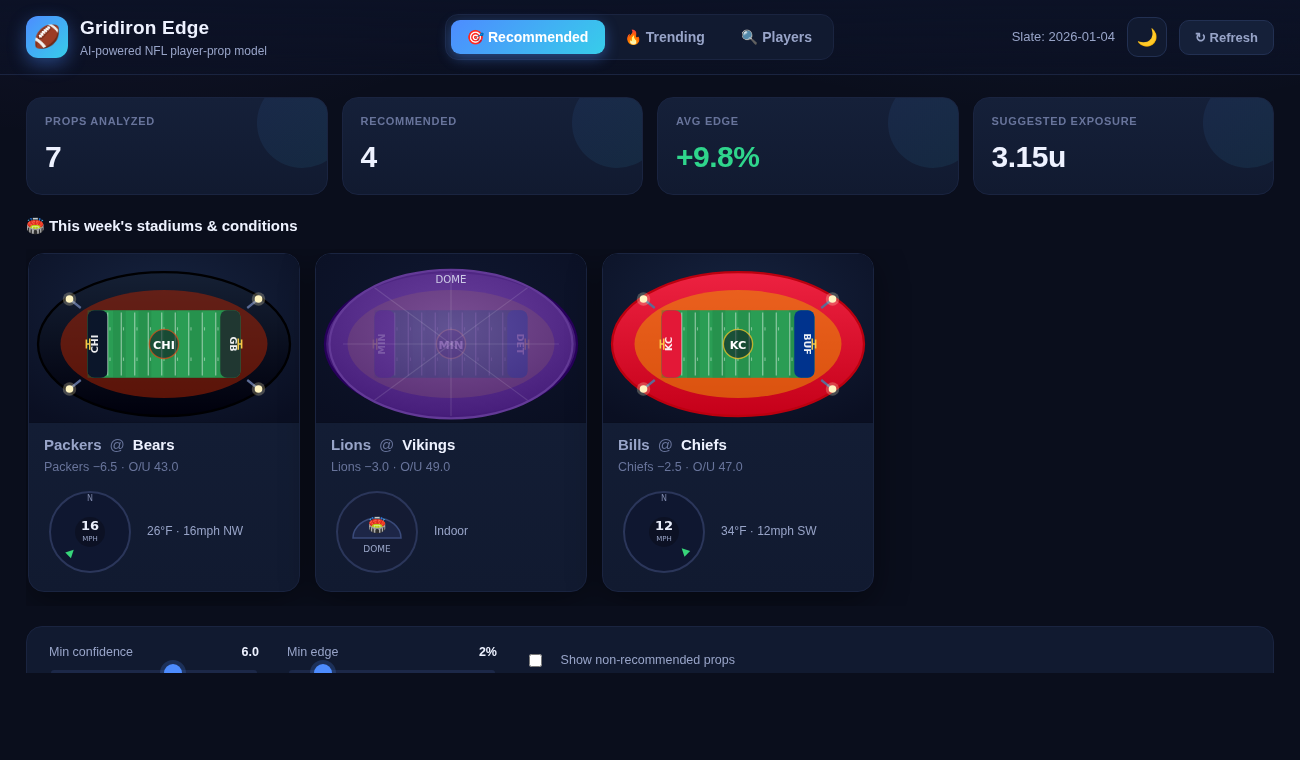
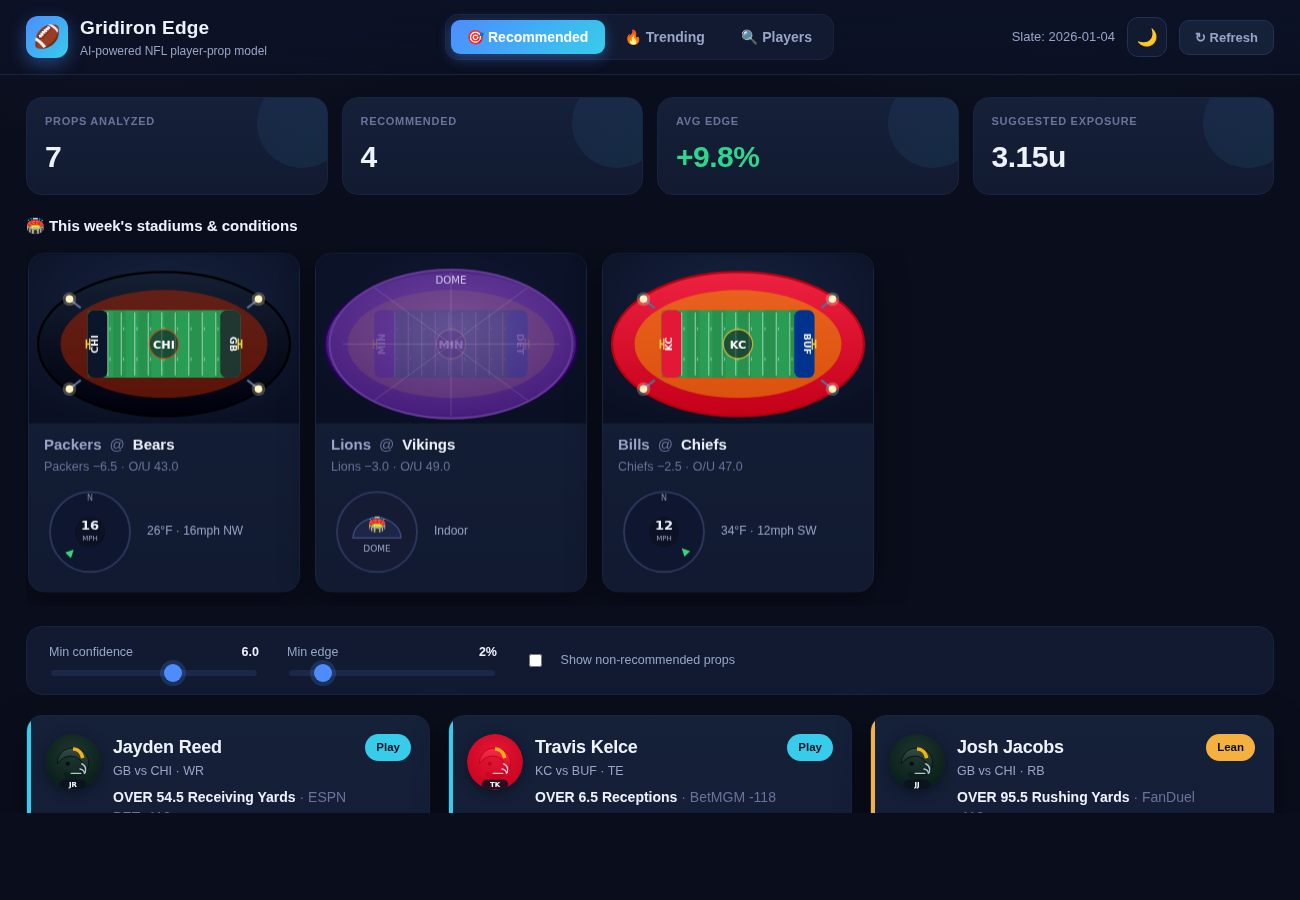
Add tasteful motion: scroll-reveal, tilt, animated bars & pings
- Staggered scroll-reveal via IntersectionObserver: cards, game cards, trend
  rows and player profiles fade/rise in with a per-index delay, on initial load
  and on each view switch. Instant (no-op) under prefers-reduced-motion or
  ?static so screenshots stay correct.
- Pointer-tilt on the stadium cards (subtle 3D perspective on mouse move).
- Projection bars draw in (range scales from the line, dots pop into place) on
  every render.
- Sparkline radar "ping" behind each player's most recent game.
- Grade-colored hover glow on pick cards; animated sheen on the logo.
- Replaced the old load-time rise animation with the reveal system; hover lift
  swapped for glow so motion and hover no longer fight over transform.

All gated behind a prefers-reduced-motion block. Backend untouched; 44 tests
still green. README + docs/dashboard.png updated.

Claude-Session: https://claude.ai/code/session_01UhMzn6SrSme5XhqhDFhnR5

diff --git a/web/css/styles.css b/web/css/styles.css
@@ -160,7 +160,8 @@ input[type=range]::-webkit-slider-thumb:hover { transform: scale(1.12); }
   border: 1px solid var(--border-soft); border-radius: var(--radius); box-shadow: var(--shadow);
   transition: transform .14s ease, border-color .2s ease;
 }
-.game-card:hover { transform: translateY(-4px); border-color: var(--brand); }
+.game-card { transform-style: preserve-3d; transition: box-shadow .25s ease, border-color .2s ease; }
+.game-card:hover { border-color: var(--brand); box-shadow: var(--shadow-lg); }
 .stadium-wrap { line-height: 0; background: #070b16; }
 .stadium-wrap .stadium { width: 100%; height: auto; display: block; }
 .game-info { padding: 11px 15px 3px; }
@@ -188,12 +189,11 @@ input[type=range]::-webkit-slider-thumb:hover { transform: scale(1.12); }
   border: 1px solid var(--border-soft); border-radius: var(--radius);
   padding: 18px; box-shadow: var(--shadow);
   display: flex; flex-direction: column; gap: 14px;
-  animation: rise .4s ease both; transition: transform .14s ease, border-color .2s ease;
+  transition: box-shadow .28s ease, border-color .2s ease;
 }
-.card:hover { transform: translateY(-3px); border-color: var(--border); }
+.card:hover { border-color: var(--border); box-shadow: var(--shadow-lg), 0 0 30px -12px var(--grade-color, transparent); }
 .card.faded { opacity: .6; }
 .card::before { content: ""; position: absolute; left: 0; top: 0; bottom: 0; width: 4px; background: var(--grade-color, var(--text-mute)); }
-@keyframes rise { from { opacity: 0; transform: translateY(10px); } to { opacity: 1; transform: none; } }
 
 .card-head { display: flex; justify-content: space-between; align-items: flex-start; gap: 10px; }
 .card-id { display: flex; gap: 12px; align-items: flex-start; }
@@ -276,7 +276,7 @@ input[type=range]::-webkit-slider-thumb:hover { transform: scale(1.12); }
 .profile {
   background: linear-gradient(180deg, var(--panel-2), var(--panel));
   border: 1px solid var(--border-soft); border-radius: var(--radius); box-shadow: var(--shadow);
-  overflow: hidden; animation: rise .4s ease both;
+  overflow: hidden;
 }
 .profile-head { display: flex; gap: 14px; align-items: center; padding: 18px; position: relative; overflow: hidden; }
 .profile-head::after { content: ""; position: absolute; inset: 0; background: var(--profile-grad); opacity: 0.12; pointer-events: none; z-index: 0; }
@@ -380,3 +380,55 @@ input[type=range]::-webkit-slider-thumb:hover { transform: scale(1.12); }
 }
 @keyframes shimmer { from { background-position: 140% 0; } to { background-position: -40% 0; } }
 @media (prefers-reduced-motion: reduce) { .skeleton-card { animation: none; } }
+
+/* ============================================================
+   Motion — scroll reveal, tilt, projection-bar & sparkline pings.
+   All gated behind prefers-reduced-motion at the bottom.
+   ============================================================ */
+
+/* staggered scroll-reveal (JS toggles .in via IntersectionObserver) */
+.reveal { opacity: 0; transform: translateY(16px); }
+.reveal.in {
+  opacity: 1; transform: none;
+  transition: opacity .5s ease, transform .55s cubic-bezier(.2, .7, .3, 1);
+  transition-delay: calc(var(--i, 0) * 45ms);
+}
+
+/* pointer tilt on stadium cards */
+.tilt { transition: transform .3s cubic-bezier(.2, .7, .3, 1), box-shadow .25s ease; will-change: transform; }
+.tilt.tilting { transition: box-shadow .25s ease; }
+
+/* projection bar draws in on each render */
+.range { transform-origin: left center; animation: growW .7s cubic-bezier(.2, .8, .2, 1) both; }
+@keyframes growW { from { transform: scaleX(0); } to { transform: scaleX(1); } }
+.proj-dot, .line-dot { animation: dotPop .5s .18s cubic-bezier(.4, 1.5, .5, 1) both; }
+@keyframes dotPop {
+  from { opacity: 0; transform: translate(-50%, -50%) scale(0); }
+  to   { opacity: 1; transform: translate(-50%, -50%) scale(1); }
+}
+
+/* radar "ping" behind the latest sparkline point */
+.spark-pulse { transform-box: fill-box; transform-origin: center; animation: sparkPing 1.9s ease-out infinite; }
+@keyframes sparkPing {
+  0%   { transform: scale(.5); opacity: .55; }
+  100% { transform: scale(2.6); opacity: 0; }
+}
+
+/* animated brand shimmer on the logo */
+.logo { position: relative; overflow: hidden; }
+.logo::after {
+  content: ""; position: absolute; inset: 0;
+  background: linear-gradient(120deg, transparent 30%, rgba(255,255,255,.35) 50%, transparent 70%);
+  transform: translateX(-120%); animation: sheen 5.5s ease-in-out infinite;
+}
+@keyframes sheen { 0%, 70% { transform: translateX(-120%); } 85%, 100% { transform: translateX(120%); } }
+
+@media (prefers-reduced-motion: reduce) {
+  .reveal { opacity: 1; transform: none; }
+  .reveal.in { transition: none; }
+  .tilt { transition: none; }
+  .range { animation: none; }
+  .proj-dot, .line-dot { animation: none; }
+  .spark-pulse { animation: none; opacity: 0; }
+  .logo::after { animation: none; }
+}

diff --git a/web/js/app.js b/web/js/app.js
@@ -24,6 +24,47 @@ function escapeHtml(s) {
   return String(s).replace(/[&<>"']/g, (c) => ({ "&": "&amp;", "<": "&lt;", ">": "&gt;", '"': "&quot;", "'": "&#39;" }[c]));
 }
 
+/* ---------------- motion ---------------- */
+const reduceMotion = window.matchMedia("(prefers-reduced-motion: reduce)").matches;
+
+const revealObserver = ("IntersectionObserver" in window) && !reduceMotion
+  ? new IntersectionObserver((entries, obs) => {
+      entries.forEach((e) => { if (e.isIntersecting) { e.target.classList.add("in"); obs.unobserve(e.target); } });
+    }, { threshold: 0.08, rootMargin: "0px 0px -6% 0px" })
+  : null;
+
+// Tag children for staggered reveal, then observe (or show immediately).
+function revealChildren(container) {
+  if (!container) return;
+  const instant = reduceMotion || state.static || !revealObserver;
+  const kids = container.children;
+  for (let i = 0; i < kids.length; i++) {
+    const el = kids[i];
+    el.classList.add("reveal");
+    el.style.setProperty("--i", Math.min(i, 12));
+    if (instant) el.classList.add("in");
+    else revealObserver.observe(el);
+  }
+}
+
+// Subtle pointer tilt for stadium cards.
+function enableTilt(container) {
+  if (!container || reduceMotion) return;
+  container.querySelectorAll(".tilt").forEach((card) => {
+    card.addEventListener("pointermove", (ev) => {
+      const r = card.getBoundingClientRect();
+      const px = (ev.clientX - r.left) / r.width - 0.5;
+      const py = (ev.clientY - r.top) / r.height - 0.5;
+      card.classList.add("tilting");
+      card.style.transform = `perspective(760px) rotateY(${px * 7}deg) rotateX(${-py * 7}deg) translateZ(6px)`;
+    });
+    card.addEventListener("pointerleave", () => {
+      card.classList.remove("tilting");
+      card.style.transform = "";
+    });
+  });
+}
+
 /* ---------------- theme ---------------- */
 function applyTheme(theme) {
   document.documentElement.setAttribute("data-theme", theme);
@@ -106,6 +147,8 @@ function renderGames() {
   const host = document.getElementById("games");
   if (!games.length) { host.innerHTML = ""; return; }
   host.innerHTML = games.map(gameCard).join("");
+  revealChildren(host);
+  enableTilt(host);
 }
 
 function gameCard(g) {
@@ -113,7 +156,7 @@ function gameCard(g) {
   const cond = w.dome ? "Indoor" : `${Math.round(w.temp_f)}°F · ${Math.round(w.wind_mph)}mph${w.wind_dir ? " " + w.wind_dir : ""}`;
   const favTxt = g.favorite ? `${teamName(g.favorite)} −${Math.abs(g.spread).toFixed(1)}` : "";
   return `
-    <article class="game-card">
+    <article class="game-card tilt">
       <div class="stadium-wrap">${stadium(g)}</div>
       <div class="game-info">
         <div class="matchup"><span class="away">${escapeHtml(teamName(g.away))}</span>
@@ -134,6 +177,7 @@ function renderRecommended() {
   }
   host.innerHTML = visible.map(cardHTML).join("");
   host.querySelectorAll(".conf-fill[data-w]").forEach((el) => requestAnimationFrame(() => (el.style.width = el.dataset.w)));
+  revealChildren(host);
 }
 
 function projBar(r) {
@@ -212,11 +256,13 @@ function renderTrending() {
     { title: "❄ Cooling Off", sub: "Production sliding vs prior form", rows: fallers, metric: (r) => `<span class="val neg">${r.trend_delta}</span>`, stroke: "var(--bad)" },
     { title: "💎 Biggest Edges", sub: "Model vs the sportsbook line", rows: edges, metric: (r) => `<span class="val cyan">${signedPct(r.edge)}</span>`, stroke: "var(--cyan)" },
   ];
-  document.getElementById("trending").innerHTML = cols.map((c) => `
+  const host = document.getElementById("trending");
+  host.innerHTML = cols.map((c) => `
     <div class="trend-col">
       <h3>${c.title}</h3><div class="colsub">${c.sub}</div>
       ${c.rows.length ? c.rows.map((r, i) => trendRow(r, i, c)).join("") : `<div class="empty" style="padding:24px">No movers.</div>`}
     </div>`).join("");
+  revealChildren(host);
 }
 
 function trendRow(r, i, col) {
@@ -248,6 +294,7 @@ function renderPlayers() {
   }
   host.innerHTML = players.map(profileHTML).join("");
   host.querySelectorAll(".conf-fill[data-w]").forEach((el) => requestAnimationFrame(() => (el.style.width = el.dataset.w)));
+  revealChildren(host);
 }
 
 function profileHTML(r) {

diff --git a/web/js/visuals.js b/web/js/visuals.js
@@ -236,6 +236,10 @@ function sparkline(values, opts = {}) {
   const thresh = line == null ? "" :
     `<line x1="${pad}" y1="${y(line)}" x2="${w - pad}" y2="${y(line)}"
        stroke="var(--warn)" stroke-width="1" stroke-dasharray="4 4" opacity="0.8"/>`;
+  // radar "ping" behind the most recent game
+  const li = data.length - 1;
+  const lastC = line == null ? stroke : (data[li] > line ? "var(--good)" : "var(--bad)");
+  const ping = `<circle class="spark-pulse" cx="${x(li)}" cy="${y(data[li])}" r="3" fill="${lastC}"/>`;
 
   return `
   <svg class="spark" width="${w}" height="${h}" viewBox="0 0 ${w} ${h}" preserveAspectRatio="none">
@@ -247,6 +251,7 @@ function sparkline(values, opts = {}) {
     </defs>
     <path d="${areaPath}" fill="url(#${uid}a)"/>
     ${thresh}
+    ${ping}
     <path class="spark-line" d="${linePath}" fill="none" stroke="${stroke}"
           stroke-width="2" stroke-linecap="round" stroke-linejoin="round"/>
     ${dots}

diff --git a/README.md b/README.md
@@ -67,6 +67,11 @@ Visual details:
 - **Cartoony player avatars** — a team-colored helmet avatar beside each name.
   These are stylized marks, not likenesses; `playerAvatar()` will use a real
   `headshot` URL (nflverse/ESPN provide them) when one is supplied.
+- **Motion** — staggered scroll-reveal (IntersectionObserver), pointer-tilt on
+  the stadium cards, projection bars that draw in, a radar "ping" on each
+  player's latest game, grade-colored hover glow, and a logo sheen. All honor
+  `prefers-reduced-motion`, and `?static` disables entrance motion for
+  repeatable screenshots.
 
 > On real player likenesses: generating photoreal/cartoon faces of specific
 > players isn't done here (capability + likeness rights). The avatar system is
